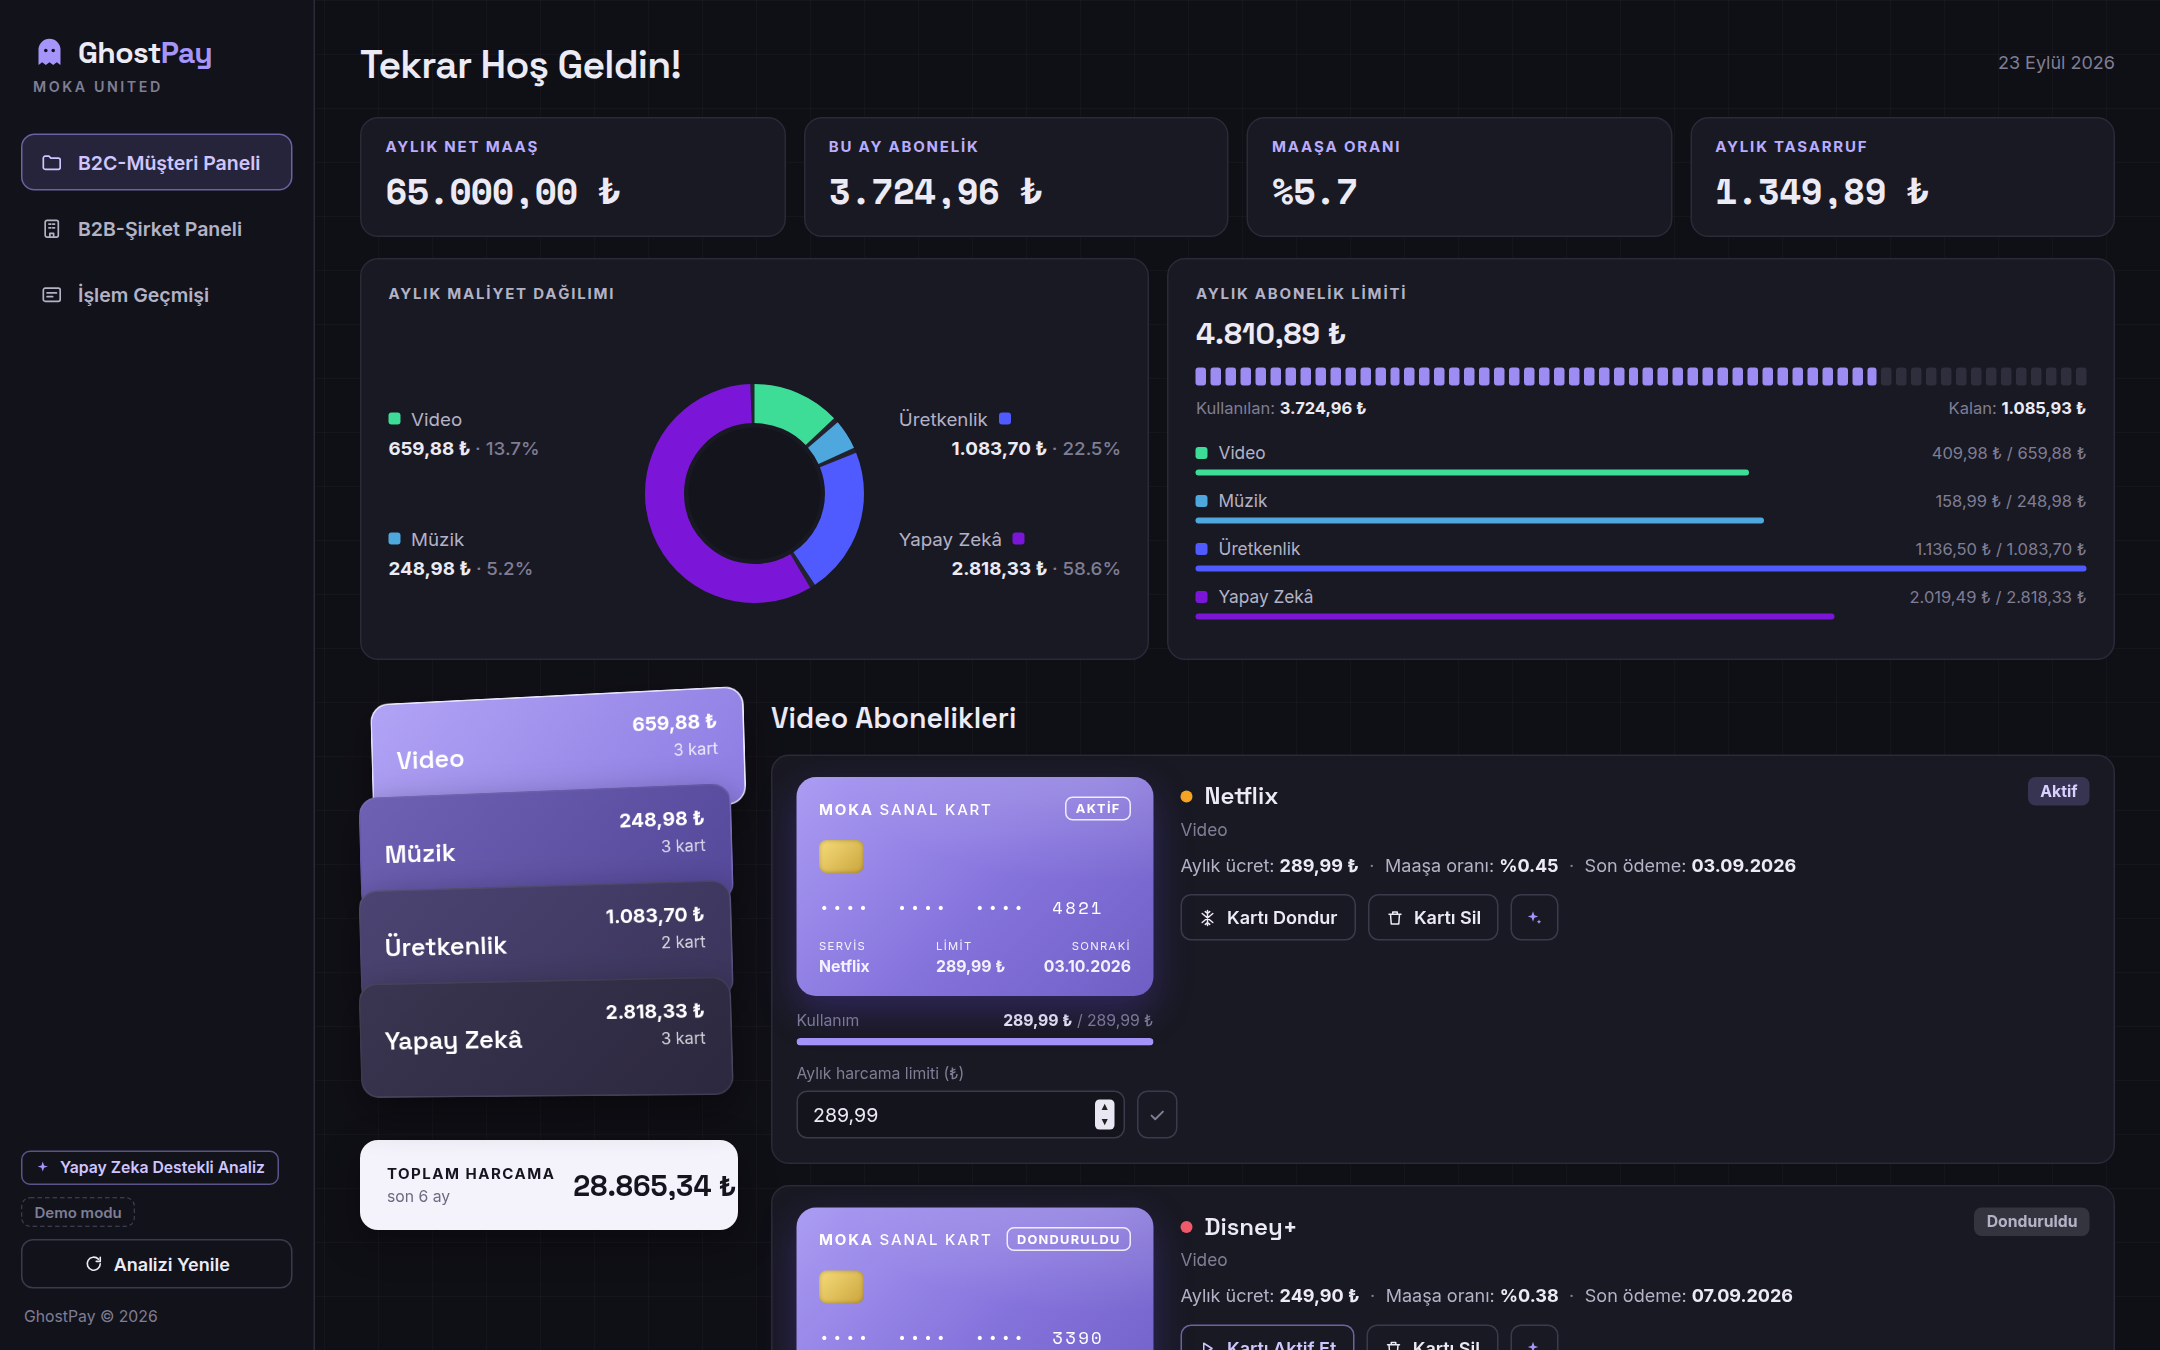
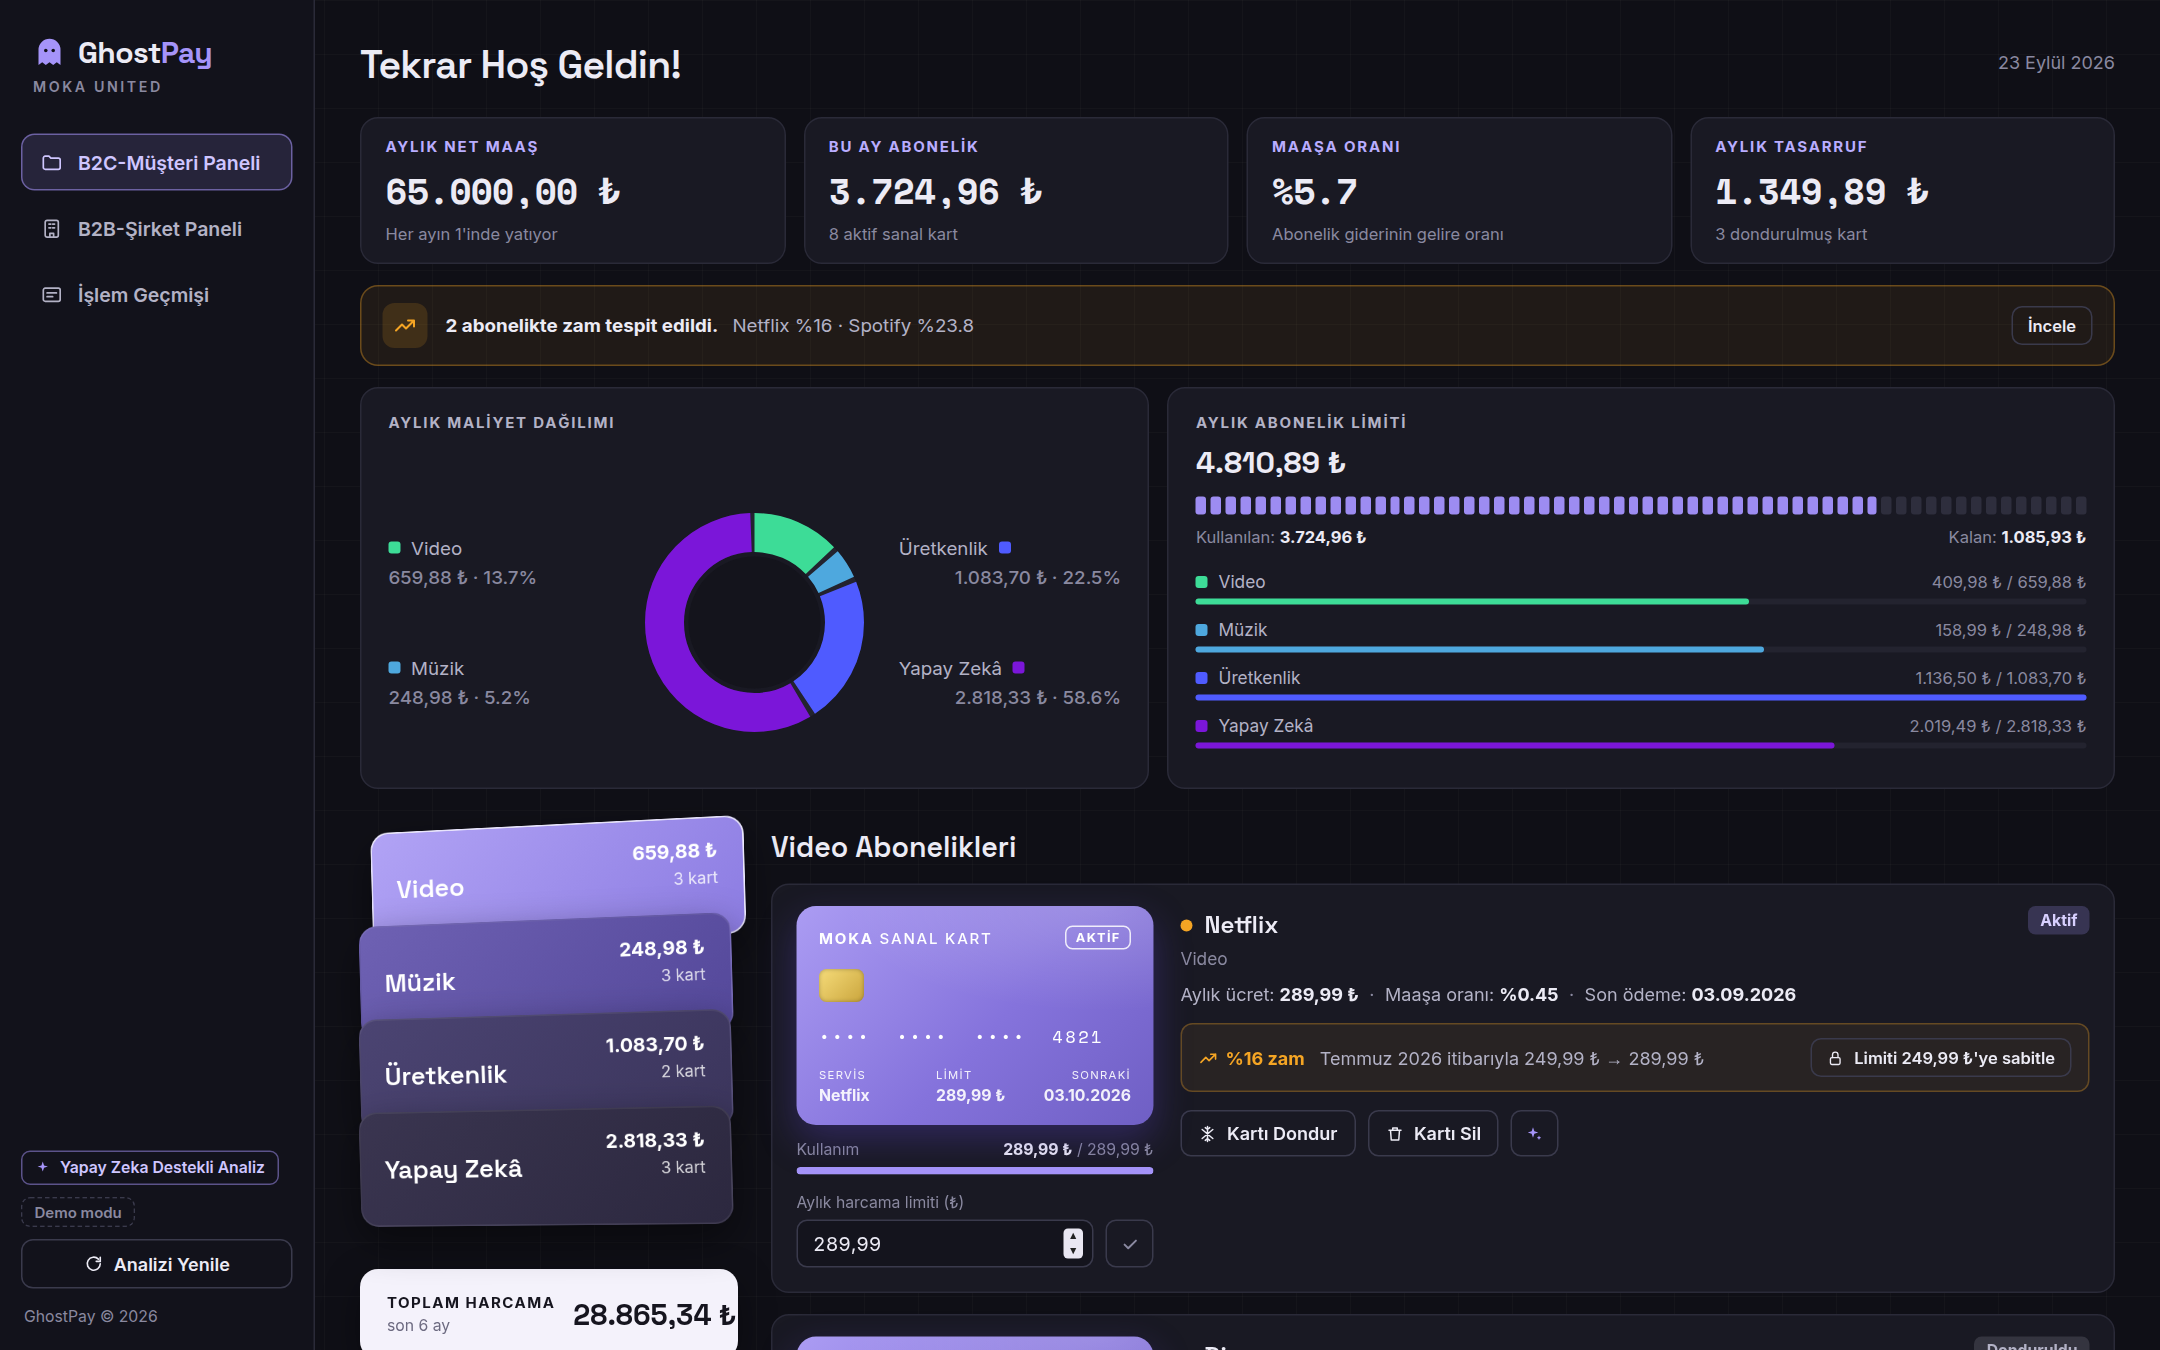
Refresh README with demo GIF and drop unused Docker files

diff --git a/README.md b/README.md
@@ -17,7 +17,7 @@
 ### [▶ Canlı demo / Live demo](https://ghostpay-670i.onrender.com)
 <sub>Ücretsiz sunucu uykudaysa ilk açılış ~50 sn sürebilir · First load may take ~50s while the free server wakes up</sub>
 
-<img src="docs/screenshots/b2c-dashboard.png" alt="GhostPay B2C müşteri paneli" width="900">
+<img src="docs/demo.gif" alt="GhostPay demo: zam tespiti, limit sabitleme, AI analizi ve şirket paneli" width="880">
 
 </div>
 
@@ -30,38 +30,52 @@
 Birçok dijital platformda abonelik iptali karmaşık ve zaman alıcı olduğu için
 kullanıcılar kullanmadıkları aboneliklere ödemeye devam ediyor. GhostPay bu
 problemi **ödeme tarafında** çözer: her aboneliğe ayrı bir Moka United sanal kartı
-bağlanır ve kullanıcı tek dokunuşla kartı dondurabilir, silebilir ya da kart
-limitini güncelleyebilir. Yapay zekâ her aboneliği çok boyutlu değerlendirip
-kullanıcıya kişisel tasarruf önerileri, abonelik şirketlerine ise anonim churn
-analizi ve müşteriyi tutma stratejileri sunar.
+bağlanır; kullanıcı kartı tek dokunuşla dondurabilir, silebilir ya da limitini
+değiştirebilir. Bir platform zam yaptığında GhostPay bunu işlem geçmişinden fark
+eder ve limiti eski fiyata sabitlemeyi önerir. Yapay zekâ her aboneliği çok boyutlu
+değerlendirip kullanıcıya kişisel tasarruf önerileri, abonelik şirketlerine ise
+anonim churn analizi ve müşteriyi tutma stratejileri sunar.
 
 ### Özellikler
 
 | | |
 |---|---|
-| **B2C · Müşteri Paneli** | Aylık net gelir, abonelik gideri, gelire oranı ve dondurulan kartlardan gelen tasarruf. Kategori bazında maliyet dağılımı ve tüm sanal kartların limit kullanımı. |
-| **Sanal kart işlemleri** | Kartı dondur / aktif et, kartı sil, aylık harcama limitini güncelle. Limit ücretin altına inerse *"Sonraki çekim reddedilecek"* uyarısı; fiyat zammına karşı koruma. |
-| **AI abonelik analizi** | Harcama alışkanlıkları, ödeme geçmişi, aynı kategorideki rakip abonelikler, fiyat seviyesi ve gelire oran birlikte değerlendirilerek doğal dilde kişisel öneri. |
-| **B2B · Şirket Paneli** | Kişisel veri paylaşılmadan, anonimleştirilmiş sinyallerle churn riski, rakip sayısı, kart durumu ve aylık/yıllık gelir kaybı riski. |
-| **AI risk açıklaması ve aksiyonlar** | Churn riskinin nedenleri ve müşteriyi tutmak için kişiselleştirilmiş 3 kampanya önerisi (indirim, yıllık paket, aile paketi…). |
-| **İşlem Geçmişi** | 6 aylık sentetik Open Banking verisi, arama, gelir/gider filtresi, aylık gider grafiği ve AI harcama özeti. |
+| **Müşteri paneli** | Aylık net gelir, abonelik gideri, gelire oranı ve dondurulan kartlardan gelen tasarruf. Kategori bazında maliyet dağılımı ve tüm sanal kartların limit kullanımı. |
+| **Sanal kart işlemleri** | Kartı dondur / aktif et, sil (geri alınabilir), aylık harcama limitini güncelle. Limit ücretin altına inerse *"Sonraki çekim reddedilecek"* uyarısı. |
+| **Zam tespiti** | Ödemelerde kalıcı fiyat artışı yakalanır (kur oynamaları ve tek seferlik sapmalar zam sayılmaz). Kart üzerinde eski → yeni fiyat gösterilir, tek tıkla limit eski fiyata sabitlenir. |
+| **AI abonelik analizi** | Harcama alışkanlıkları, ödeme geçmişi, zamlar, aynı kategorideki rakip abonelikler ve gelire oran birlikte değerlendirilerek doğal dilde kişisel öneri. |
+| **Şirket paneli** | Kişisel veri paylaşılmadan, anonimleştirilmiş sinyallerle churn riski, rakip sayısı, kart durumu ve aylık/yıllık gelir kaybı riski. |
+| **AI risk açıklaması ve aksiyonlar** | Churn riskinin nedenleri ve müşteriyi tutmak için kişiselleştirilmiş 3 kampanya önerisi (zam öncesi fiyat garantisi, yıllık paket, aile paketi…). |
+| **İşlem geçmişi** | 6 aylık sentetik Open Banking verisi, arama, gelir/gider filtresi, aylık gider grafiği ve AI harcama özeti. |
+| **Mobil** | Telefonda üst menü ve kaydırılabilir kategori kartlarıyla tam kullanım. |
 
 <table>
   <tr>
-    <td><img src="docs/screenshots/b2c-virtual-cards.png" alt="Sanal kartlar ve AI analizi"></td>
-    <td><img src="docs/screenshots/b2b-churn.png" alt="B2B churn analizi"></td>
+    <td width="50%"><img src="docs/screenshots/b2c-dashboard.png" alt="Müşteri paneli"></td>
+    <td width="50%"><img src="docs/screenshots/b2c-virtual-cards.png" alt="Sanal kartlar, zam tespiti ve AI analizi"></td>
   </tr>
   <tr>
-    <td align="center"><sub>Sanal kartlar, limit koruması ve AI analizi</sub></td>
-    <td align="center"><sub>Şirket paneli: churn riski ve önerilen aksiyonlar</sub></td>
+    <td align="center"><sub>Müşteri paneli ve zam uyarısı</sub></td>
+    <td align="center"><sub>Sanal kart, limiti eski fiyata sabitleme ve AI analizi</sub></td>
   </tr>
   <tr>
+    <td><img src="docs/screenshots/b2b-churn.png" alt="Şirket paneli"></td>
     <td><img src="docs/screenshots/b2b-ai-explanation.png" alt="AI risk açıklaması"></td>
-    <td><img src="docs/screenshots/transactions.png" alt="İşlem geçmişi"></td>
   </tr>
   <tr>
+    <td align="center"><sub>Şirket paneli: churn riski ve önerilen aksiyonlar</sub></td>
     <td align="center"><sub>AI risk açıklaması</sub></td>
+  </tr>
+  <tr>
+    <td><img src="docs/screenshots/transactions.png" alt="İşlem geçmişi"></td>
+    <td align="center">
+      <img src="docs/screenshots/mobile-b2c.png" alt="Telefon: müşteri paneli" width="45%">
+      <img src="docs/screenshots/mobile-b2b.png" alt="Telefon: şirket paneli" width="45%">
+    </td>
+  </tr>
+  <tr>
     <td align="center"><sub>İşlem geçmişi ve AI harcama özeti</sub></td>
+    <td align="center"><sub>Telefon görünümü</sub></td>
   </tr>
 </table>
 
@@ -69,27 +83,27 @@ analizi ve müşteriyi tutma stratejileri sunar.
 
 ```mermaid
 flowchart LR
-    A[Open Banking<br>işlem geçmişi] --> B[Abonelik tespiti<br>detector.py]
+    A[Open Banking<br>işlem geçmişi] --> B[Abonelik ve<br>zam tespiti]
     B --> C[Davranış profili<br>anonim sinyaller]
-    C --> D{AI motoru<br>ai_engine.py}
+    C --> D{AI motoru}
     D -->|API anahtarı var| E[Claude API]
-    D -->|anahtar yok / limit doldu| F[Demo motoru<br>demo_ai.py]
-    E --> G[B2C tasarruf önerisi]
-    E --> H[B2B churn skoru<br>+ retention aksiyonları]
+    D -->|anahtar yok / limit doldu| F[Demo motoru]
+    E --> G[Kullanıcıya<br>tasarruf önerisi]
+    E --> H[Şirkete churn skoru<br>ve aksiyonlar]
     F --> G
     F --> H
 ```
 
-1. **Tespit:** Son 6 ayın işlemleri içinde en az 3 kez, ~30 gün arayla ve benzer tutarla tekrarlanan ödemeler abonelik olarak işaretlenir ve kategorilere ayrılır.
-2. **Profil:** Her abonelik için ücret, gelire oran, rakip abonelikler, kart durumu, limit ve ödeme geçmişinden bir davranış profili çıkarılır. Şirketlere yalnızca bu anonim sinyaller iletilir.
-3. **Analiz:** Profil yapay zekâ motoruna gönderilir; sonuçlar aynı girdi için önbellekte tutulur.
+1. **Tespit:** En az 3 kez, ~30 gün arayla ve benzer tutarla tekrarlanan ödemeler abonelik sayılır. Tutarın kalıcı olarak %6'dan fazla yükseldiği nokta zam olarak işaretlenir.
+2. **Profil:** Her abonelik için ücret, gelire oran, zam, rakip abonelikler, kart durumu, limit ve ödeme geçmişinden bir profil çıkarılır. Şirketlere yalnızca bu anonim sinyaller iletilir.
+3. **Analiz:** Profil yapay zekâ motoruna gönderilir; aynı girdiye verilen cevap önbellekten gelir.
 
 ### Yapay zekâ modları
 
 | Mod | Ne zaman | Açıklama |
 |---|---|---|
 | **Claude** | `ANTHROPIC_API_KEY` tanımlıysa | Analizler Claude ile üretilir. Saatlik çağrı limiti (`AI_HOURLY_LIMIT`, varsayılan 200) herkese açık demoda maliyeti korur. |
-| **Demo** | Anahtar yoksa ya da limit dolduysa | Aynı biçimde cevaplar, davranış verisinden kural tabanlı olarak üretilir. Uygulama her zaman çalışır, maliyet sıfırdır. Arayüzde *Demo modu* etiketi görünür. |
+| **Demo** | Anahtar yoksa ya da limit dolduysa | Aynı biçimdeki cevaplar davranış verisinden kural tabanlı üretilir; uygulama her zaman çalışır ve maliyeti sıfırdır. Arayüzde *Demo modu* etiketi görünür. |
 
 ### Yerelde çalıştırma
 
@@ -100,31 +114,17 @@ python3 -m pip install -r requirements.txt
 python3 app.py            # http://localhost:8501
 ```
 
-Claude ile çalıştırmak için (isteğe bağlı):
+Claude ile çalıştırmak için: `export ANTHROPIC_API_KEY="sk-ant-..."` sonra `python3 app.py`.
 
-```bash
-export ANTHROPIC_API_KEY="sk-ant-..."
-python3 app.py
-```
-
-### Canlıya alma (Render)
-
-Proje şu an **https://ghostpay-670i.onrender.com** adresinde yayında. Kendi kopyanı yayına almak için:
-
-[![Deploy to Render](https://render.com/images/deploy-to-render-button.svg)](https://render.com/deploy?repo=https://github.com/busebb82/Ghostpay)
-
-1. Render hesabınla butona tıkla (ya da **New → Blueprint** ile bu repoyu seç). `render.yaml` gerisini ayarlar.
-2. İstersen **Environment** sekmesinden `ANTHROPIC_API_KEY` ekle; eklemezsen site demo modunda çalışır.
-3. Ücretsiz planda servis bir süre kullanılmazsa uyur; ilk açılış ~50 sn sürebilir.
-
-Docker ile: `docker build -t ghostpay . && docker run -p 8501:8501 ghostpay`
+Canlı sürüm Render'da `render.yaml` ile çalışır; `main` dalına her birleştirmede otomatik güncellenir.
 
 ### Proje yapısı
 
 ```
 app.py          Flask sunucusu: sayfa, sanal kart işlemleri ve AI için JSON API
-detector.py     Abonelik tespiti, kategoriler ve davranış profili
-ai_engine.py    Claude entegrasyonu, önbellek, saatlik limit, demo moduna geçiş
+catalog.py      Bilinen servisler: ad, kategori, liste fiyatı, çekim günü
+detector.py     Abonelik ve zam tespiti, AI'a giden davranış profili
+ai_engine.py    Claude entegrasyonu, önbellek, saatlik limit
 demo_ai.py      API anahtarı olmadan çalışan kural tabanlı analiz motoru
 mock_data.py    6 aylık sentetik Open Banking işlem geçmişi
 static/         Arayüz (HTML, CSS, JavaScript, yerel yazı tipleri)
@@ -139,9 +139,9 @@ pytest          # testler
 ruff check .    # lint
 ```
 
-Her ziyaretçi kendi demo verisini alır; bir ziyaretçinin kartlarda yaptığı
-değişiklikler diğerlerini etkilemez. Veriler bellekte tutulur ve 2 saat işlem
-yapılmayan oturumlar silinir.
+Her ziyaretçi kendi demo verisini alır; birinin kartlarda yaptığı değişiklik
+diğerlerini etkilemez. Veriler bellekte tutulur ve 2 saat işlem yapılmayan
+oturumlar silinir.
 
 ---
 
@@ -152,26 +152,24 @@ yapılmayan oturumlar silinir.
 Cancelling a subscription is often deliberately hard, so people keep paying for
 services they no longer use. GhostPay solves this **on the payment side**: every
 subscription gets its own Moka United virtual card that the user can freeze,
-delete or cap with a spending limit in one tap. An AI layer evaluates each
-subscription and gives users personal saving advice, while subscription
-providers get anonymized churn analysis and retention strategies.
+delete or cap in one tap. When a service raises its price, GhostPay spots it in
+the transaction history and offers to lock the card limit at the old price. An AI
+layer evaluates each subscription and gives users personal saving advice, while
+subscription providers get anonymized churn analysis and retention strategies.
 
 ### Features
 
-- **B2C dashboard:** net income, monthly subscription spend, share of income, savings from frozen cards, cost breakdown by category and limit usage of every virtual card.
-- **Virtual card controls:** freeze / reactivate, delete, and update the monthly limit, with a warning when the limit drops below the price (the next charge will be declined).
-- **AI subscription analysis:** combines spending habits, payment history, competing subscriptions in the same category, price level and share of income into natural-language advice.
-- **B2B dashboard:** churn risk, number of competitors, card status and monthly/yearly revenue-at-risk, built only from anonymized signals.
-- **AI risk explanation & retention actions:** the reasons behind the churn score and three personalized campaigns to keep the customer.
-- **Transaction history:** 6 months of synthetic Open Banking data with search, income/expense filters, a monthly spending chart and an AI spending summary.
+- **Customer dashboard:** net income, monthly subscription spend, share of income, savings from frozen cards, cost breakdown by category and limit usage of every virtual card.
+- **Virtual card controls:** freeze / reactivate, delete (with undo) and update the monthly limit, with a warning when the limit drops below the price.
+- **Price hike detection:** permanent price increases are detected from the charges; currency noise and one-off spikes are ignored. One click locks the limit at the old price.
+- **AI subscription analysis:** spending habits, payment history, price hikes, competing subscriptions and share of income, explained in natural language.
+- **Company dashboard:** churn risk, number of competitors, card status and revenue at risk, built only from anonymized signals, plus AI explanations and three retention actions.
+- **Transaction history:** 6 months of synthetic Open Banking data with search, filters, a monthly spending chart and an AI summary.
+- **Mobile:** full experience on phones.
 
 ### AI modes
 
-With `ANTHROPIC_API_KEY` set, analyses are generated by **Claude**, cached per input and protected by an hourly call limit (`AI_HOURLY_LIMIT`, default 200). Without a key (or once the limit is reached) a rule-based **demo engine** returns answers in the same format from the same behavioural data, so the public demo always works at zero cost.
-
-### Live demo
-
-**https://ghostpay-670i.onrender.com**. The free instance sleeps when idle, so the first load can take ~50 seconds.
+With `ANTHROPIC_API_KEY` set, analyses are generated by **Claude**, cached per input and capped per hour (`AI_HOURLY_LIMIT`, default 200). Without a key, or once the cap is reached, a rule-based **demo engine** answers in the same format, so the public demo always works at zero cost.
 
 ### Run locally
 
@@ -182,13 +180,11 @@ python3 -m pip install -r requirements.txt
 python3 app.py            # http://localhost:8501
 ```
 
-### Deploy
-
-Click **Deploy to Render** above (or create a Blueprint from this repo); `render.yaml` configures the service. Optionally add `ANTHROPIC_API_KEY` under *Environment*. A `Dockerfile` is included for other platforms.
+Tests: `pip install -r requirements-dev.txt && pytest`. The live version runs on Render via `render.yaml`.
 
 ### Tech stack
 
-Python · Flask · Gunicorn · Anthropic Claude API · vanilla JavaScript with hand-drawn SVG charts · pytest · GitHub Actions
+Python · Flask · Gunicorn · Anthropic Claude API · vanilla JavaScript with hand-drawn SVG charts · pytest · Ruff · GitHub Actions · Render
 
 ---
 
